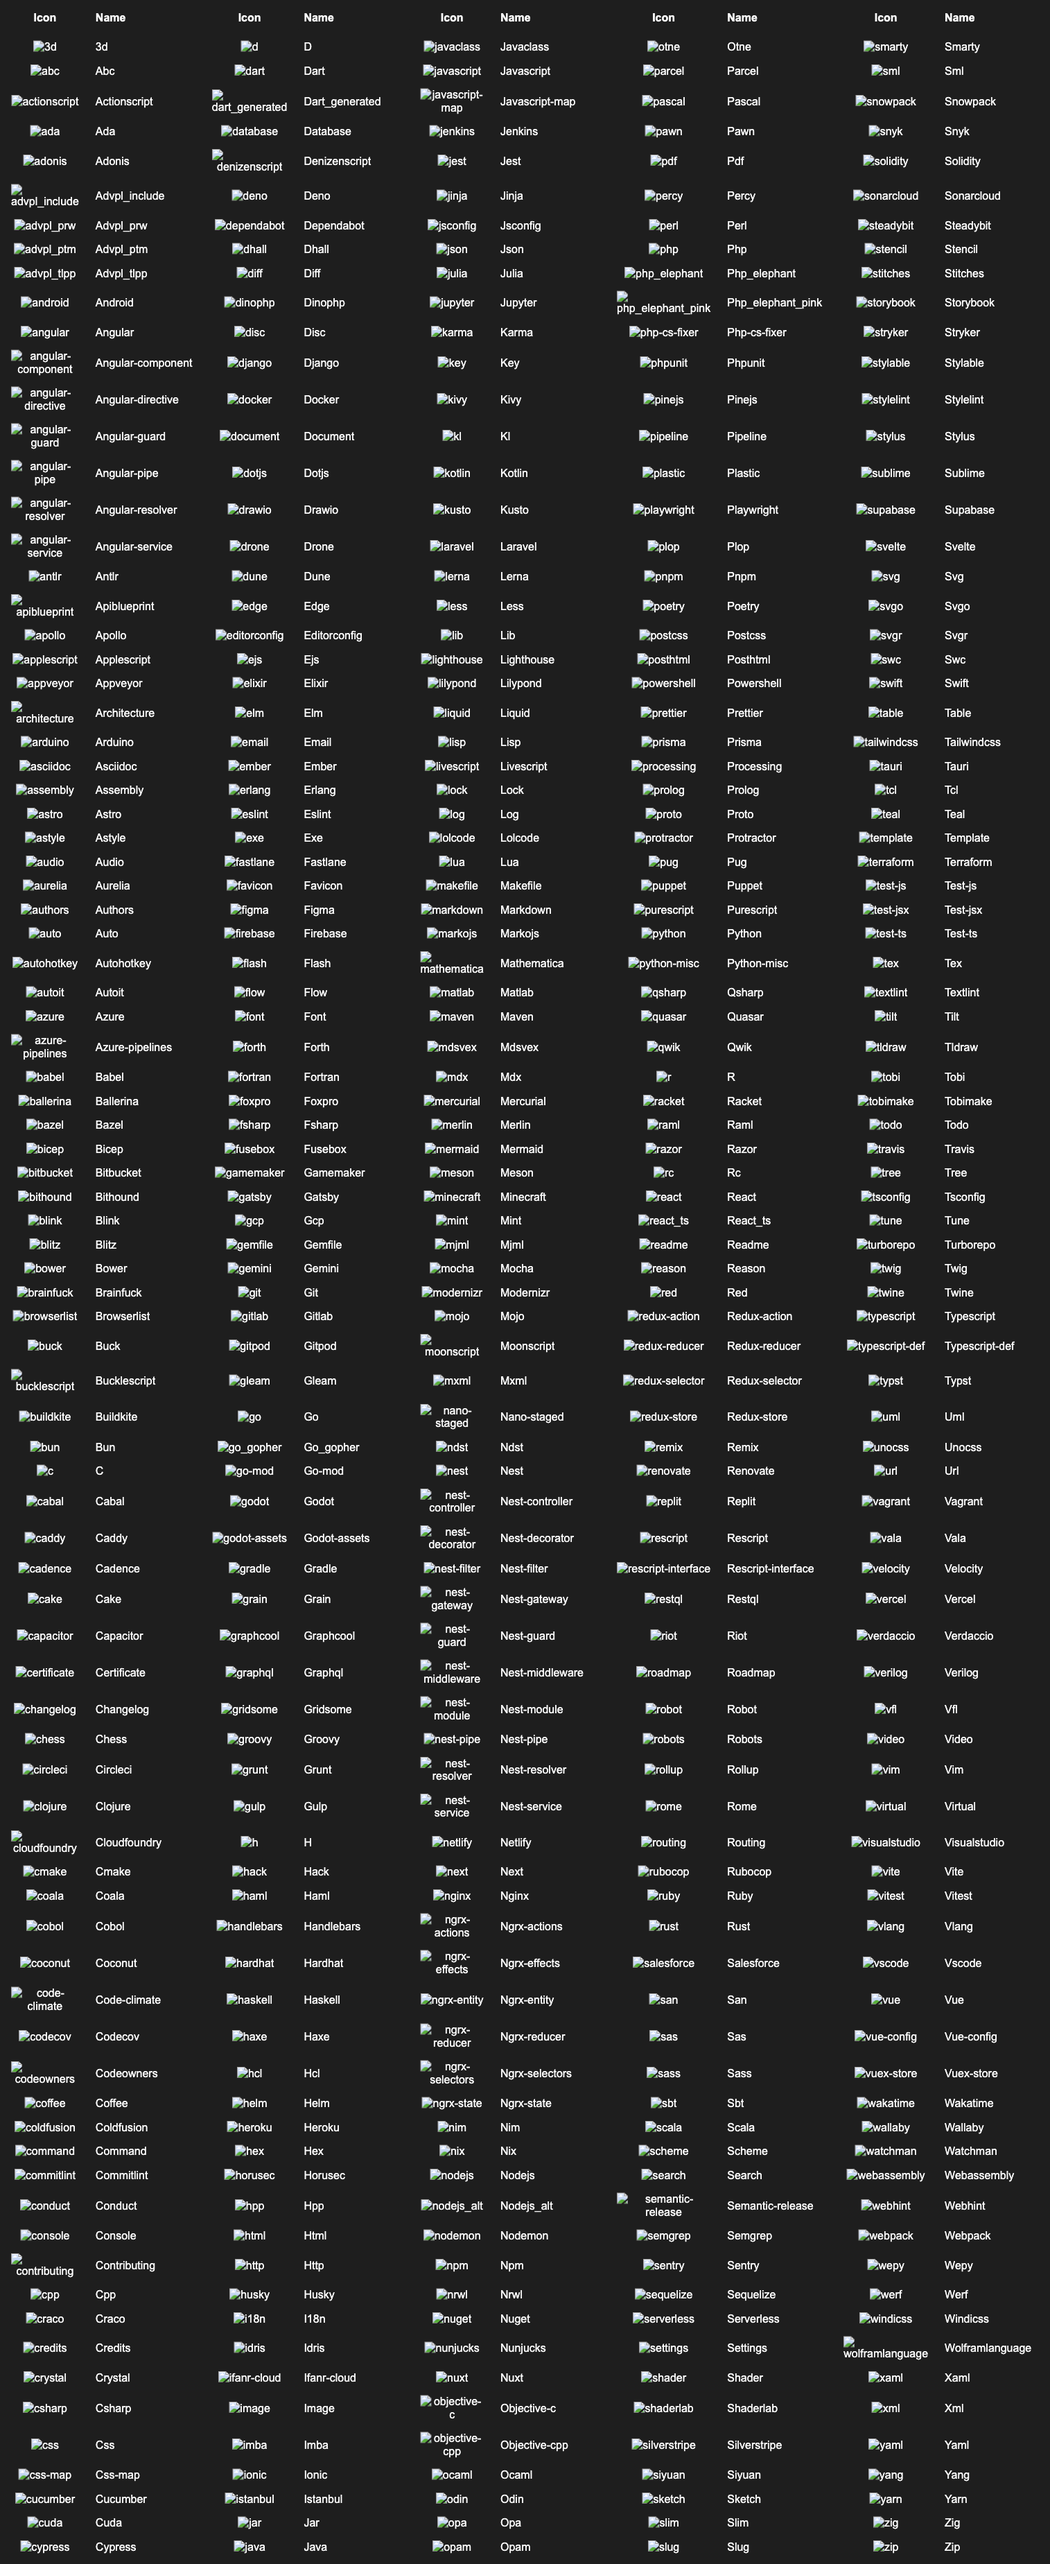
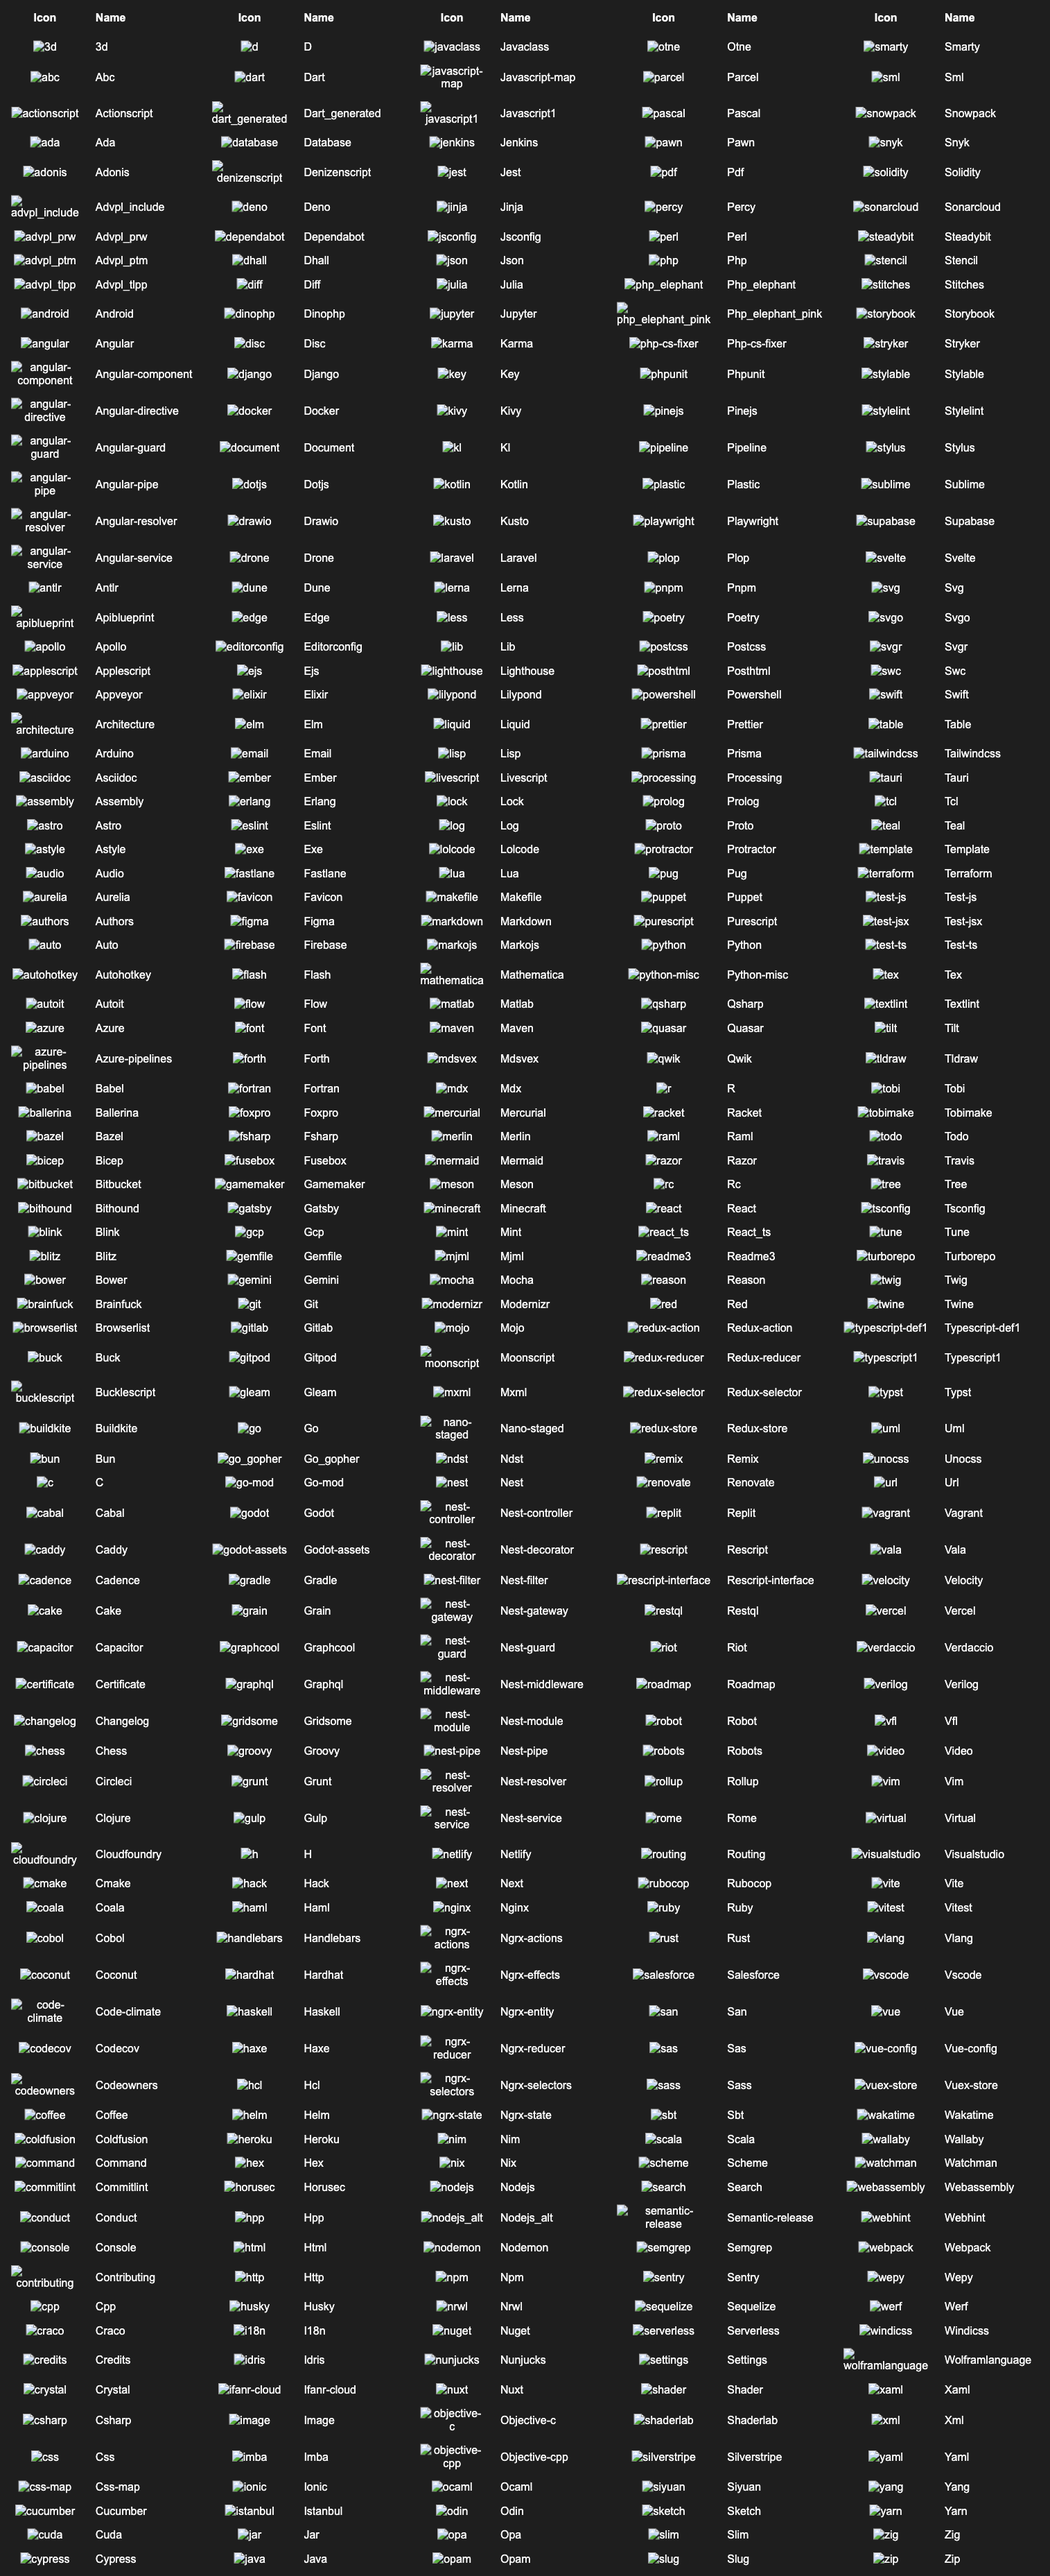
chore: update icone

diff --git a/src/icons/fileIcons.ts b/src/icons/fileIcons.ts
@@ -151,6 +151,10 @@ export const fileIcons: FileIcons = {
         'icns',
       ],
     },
+    {
+      name: 'gif',
+      fileExtensions: ['gif'],
+    },
     { name: 'javascript1', fileExtensions: ['esx', 'mjs'] },
     { name: 'react', fileExtensions: ['jsx'] },
     { name: 'react_ts', fileExtensions: ['tsx'] },
@@ -1258,6 +1262,7 @@ export const fileIcons: FileIcons = {
       fileNames: [
         'readme.md',
         'README_en.md',
+        'README_zh.md',
         'readme.rst',
         'readme.txt',
         'readme',

diff --git a/src/scripts/icons/checks/checkIconUsage.ts b/src/scripts/icons/checks/checkIconUsage.ts
@@ -65,7 +65,7 @@ const handleErrors = () => {
     Object.keys(availableIcons).forEach((icon) => {
       console.log(red(`- ${availableIcons[icon]}`));
     });
-    throw new Error('Found unused icon files!');
+    // throw new Error('Found unused icon files!');
   }
 };
 

diff --git a/CHANGELOG.md b/CHANGELOG.md
@@ -3,10 +3,17 @@
  All notable changes to this project will be documented in this file. Dates are displayed in UTC.
 
  
+#### [v0.0.4](https://github.com/simonhe/vscode-material-icon-theme-simon/compare/v0.0.3...v0.0.4) 
+
+> July 10, 2023 
+
+- chore: update icon [`d242e19`](https://github.com/simonhe/vscode-material-icon-theme-simon/commit/d242e19)
+ 
 #### [v0.0.3](https://github.com/simonhe/vscode-material-icon-theme-simon/compare/v0.0.2...v0.0.3) 
 
 > July 2, 2023 
 
+- chore: release v0.0.3 [`3fc4f5a`](https://github.com/simonhe/vscode-material-icon-theme-simon/commit/3fc4f5a)
 - chore: update [`2a65f07`](https://github.com/simonhe/vscode-material-icon-theme-simon/commit/2a65f07)
  
 #### [v0.0.2](https://github.com/simonhe/vscode-material-icon-theme-simon/compare/v0.0.1...v0.0.2) 
